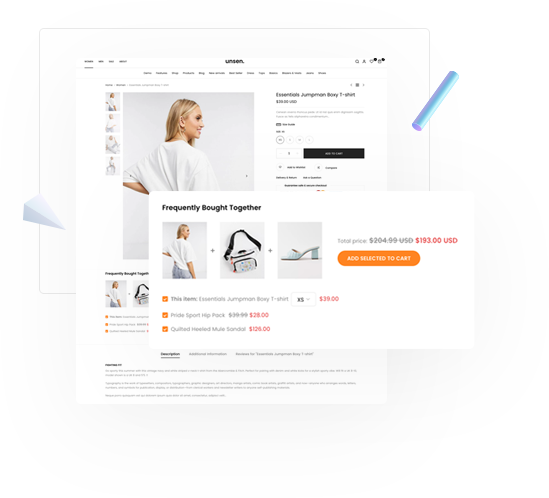
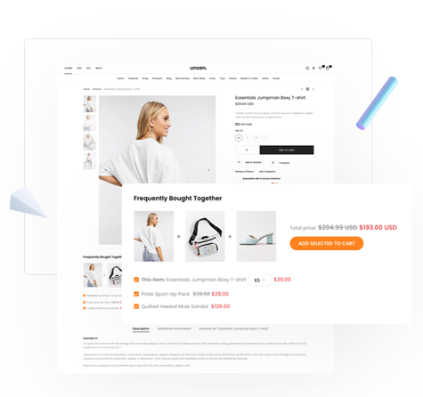
.

diff --git a/index.html b/index.html
@@ -199,24 +199,26 @@
                                     </div>
                                 </div>
                                 <li class="t4s_li_sub_menu t4s_li_sub_menu-click"> <a href="#demo20">Demo</a>
-                                    <ul class="t4s_sub_menu">
-                                        <li>
-                                            <a class="t4s_a_sub_menu" href="#">Default Demo</a>
-                                        </li>
-                                        <li>
-                                            <a class="t4s_a_sub_menu" href="#">Product Page</a>
-                                        </li>
-                                        <li>
-                                            <a class="t4s_a_sub_menu" href="#">Shop Page</a>
-                                        </li>
-                                        <li>
-                                            <a class="t4s_a_sub_menu" href="#">Blog Page</a>
-                                        </li>
-                                        <li>
-                                            <a class="t4s_a_sub_menu" href="#">Article Page</a>
-                                        </li>
-
-                                    </ul>
+                                    <nav class="t4s_sub_menu">
+                                        <ul class="t4s_sub_menu_item">
+                                            <li>
+                                                <a class="t4s_a_sub_menu" href="#">Default Demo</a>
+                                            </li>
+                                            <li>
+                                                <a class="t4s_a_sub_menu" href="#">Product Page</a>
+                                            </li>
+                                            <li>
+                                                <a class="t4s_a_sub_menu" href="#">Shop Page</a>
+                                            </li>
+                                            <li>
+                                                <a class="t4s_a_sub_menu" href="#">Blog Page</a>
+                                            </li>
+                                            <li>
+                                                <a class="t4s_a_sub_menu" href="#">Article Page</a>
+                                            </li>
+    
+                                        </ul>
+                                    </nav>
                                 </li>
                                 <li>
                                     <a target="__blank" href="#ec-install" class="position-relative">Exclusive Deal
@@ -972,8 +974,10 @@
         <div class="t4s_section_content2">
             <div id="ec-install" class="t4s_ecomposer_wrap container mw_1742">
                 <div class="t4s_ecomposer_bl1 position-relative  ">
-                    <img class="position-absolute t4s_img_plane" data-parallax='{"y":"40","smoothness":"10"}'
-                        src="./images/25. Launch.png" alt="">
+                    <div class="position-absolute t4s_img_plane " data-parallax='{"y":"40","smoothness":"10"}'>
+                        <img class="" 
+                            src="./images/25. Launch.png" alt="">
+                    </div>
 
                     <div class="t4e_img_plane_2_wrap position-absolute">
                         <div class="" data-parallax='{"y":"40","smoothness":"10"}'>
@@ -1066,7 +1070,7 @@
                             </div>
                         </div>
                         <div class=" t4s_content_EC_1 col-lg-6 col-12 ">
-                            <img src="./images/EC_deal.png" alt="">
+                            <img src="./images/ec-deal.jpeg" alt="">
                         </div>
                     </div>
                 </div>
@@ -1147,7 +1151,7 @@
                     <div class="t4s_item_EC_sp col_13_3 col-sm-6 col-12">
                         <div class="t4s_item_sp">
                             <div class="t4s_item_sp_img">
-                                <img src="./images/Layer_47_update.jpg" alt="">
+                                <img src="./images/feature7.png" alt="">
                             </div>
                             <p class="t4s_title_sp_img"><a href="#">Mobile Bottom Navigation</a></p>
                             <p class="t4s_dis_sp_img">
@@ -1180,14 +1184,15 @@
                             </p>
                         </div>
                     </div>
-                    <div class="t4s_item_EC_sp col_13_3 col-sm-6 col-12">
+                    <div class="t4s_item_EC_sp col-13_4 col-sm-6 col-12">
                         <div class="t4s_item_sp">
-                            <div class="t4s_item_sp_img ">
+                            <div class="t4s_item_sp_img">
                                 <img src="./images/feature10.png" alt="">
                             </div>
-                            <p class="t4s_title_sp_img"><a href="#">Free Boost Sales Add-ons</a></p>
+                            <p class="t4s_title_sp_img"><a href="#">Frequently Bought Together</a>
+                            </p>
                             <p class="t4s_dis_sp_img">
-                                Trust Badges, Countdown Timer, Stock Notification, Item Sold Count, Real-time Page View.
+                                Cross-sell on your product page is simple & stunning displayed with Unsen.
                             </p>
                         </div>
                     </div>
@@ -1203,18 +1208,19 @@
                         </div>
                     </div>
 
-                    <div class="t4s_item_EC_sp col-13_4 col-sm-6 col-12">
+                    <div class="t4s_item_EC_sp col_13_3 col-sm-6 col-12">
                         <div class="t4s_item_sp">
-                            <div class="t4s_item_sp_img">
+                            <div class="t4s_item_sp_img ">
                                 <img src="./images/feature12.png" alt="">
                             </div>
-                            <p class="t4s_title_sp_img"><a href="#">Frequently Bought Together</a>
-                            </p>
+                            <p class="t4s_title_sp_img"><a href="#">Free Boost Sales Add-ons</a></p>
                             <p class="t4s_dis_sp_img">
-                                Cross-sell on your product page is simple & stunning displayed with Unsen.
+                                Trust Badges, Countdown Timer, Stock Notification, Item Sold Count, Real-time Page View.
                             </p>
                         </div>
                     </div>
+                   
+                   
                 </div>
             </div>
         </div>
@@ -2488,7 +2494,7 @@
                                         d="M256 0C114.6 0 0 114.6 0 256s114.6 256 256 256s256-114.6 256-256S397.4 0 256 0zM256 464c-114.7 0-208-93.31-208-208S141.3 48 256 48s208 93.31 208 208S370.7 464 256 464zM256 336c-18 0-32 14-32 32s13.1 32 32 32c17.1 0 32-14 32-32S273.1 336 256 336zM289.1 128h-51.1C199 128 168 159 168 198c0 13 11 24 24 24s24-11 24-24C216 186 225.1 176 237.1 176h51.1C301.1 176 312 186 312 198c0 8-4 14.1-11 18.1L244 251C236 256 232 264 232 272V288c0 13 11 24 24 24S280 301 280 288V286l45.1-28c21-13 34-36 34-60C360 159 329 128 289.1 128z" />
                                 </svg>
                                 <p class="t4s_text_title_accordion ">
-                                    Why should you choose EComposer over other Page Builder apps?
+                                    Why choose Unsen?
                                 </p>
                             </div>
                             <div class="t4s_icon_accordion">
@@ -2507,21 +2513,7 @@
                         <div class="t4s_content_accordion_wrap t4s_hidden_t4s_content_accordion_wrap">
                             <div class="t4s_content_accordion">
                                 <p>
-                                    Vestibulum rutrum, mi nec elementum vehicula, eros quam gravida nisl, id fringilla neque
-                                    ante vel mi. Nam adipiscing. Donec quam felis, ultricies nec, pellentesque eu, pretium
-                                    quis, sem. Aenean leo ligula, porttitor eu, consequat vitae, eleifend ac, enim. Class
-                                    aptent taciti sociosqu ad litora torquent per conubia nostra, per inceptos hymenaeos.
-                                </p>
-                                <p>
-                                    Vestibulum ante ipsum primis in faucibus orci luctus et ultrices posuere cubilia Curae;
-                                    Fusce id purus. Pellentesque ut neque. Integer ante arcu, accumsan a, consectetuer eget,
-                                    posuere ut, mauris. Vestibulum ante ipsum primis in faucibus orci luctus et ultrices
-                                    posuere cubilia Curae; Fusce id purus. Donec mi odio, faucibus at, scelerisque quis,
-                                    convallis in, nisi.
-                                </p>
-                                <p>
-                                    Maecenas vestibulum mollis diam. Maecenas egestas arcu quis ligula mattis placerat.
-                                    Quisque malesuada placerat nisl. Fusce a quam. Praesent nonummy mi in odio.
+                                    With more than 5 years of experience and bestselling Shopify themes like Kalles, Gecko, Basel...We are confident in our ability in this field, we have spent a lot of time listening to our customers and understand their desires, that's why we developed Unsen. In addition to product quality, we also focus on providing the best experience through after-sales service, which is also why Kalles has nearly 1000 5-star reviews.
                                 </p>
                             </div>
     
@@ -2538,7 +2530,7 @@
                                         d="M256 0C114.6 0 0 114.6 0 256s114.6 256 256 256s256-114.6 256-256S397.4 0 256 0zM256 464c-114.7 0-208-93.31-208-208S141.3 48 256 48s208 93.31 208 208S370.7 464 256 464zM256 336c-18 0-32 14-32 32s13.1 32 32 32c17.1 0 32-14 32-32S273.1 336 256 336zM289.1 128h-51.1C199 128 168 159 168 198c0 13 11 24 24 24s24-11 24-24C216 186 225.1 176 237.1 176h51.1C301.1 176 312 186 312 198c0 8-4 14.1-11 18.1L244 251C236 256 232 264 232 272V288c0 13 11 24 24 24S280 301 280 288V286l45.1-28c21-13 34-36 34-60C360 159 329 128 289.1 128z" />
                                 </svg>
                                 <p class="t4s_text_title_accordion">
-                                    How to get the Live Chat support?
+                                    What's the difference between Kalles, Gecko and Unsen?
                                 </p>
                             </div>
                             <div class="t4s_icon_accordion">
@@ -2557,22 +2549,9 @@
                         <div class="t4s_content_accordion_wrap">
                             <div class="t4s_content_accordion">
                                 <p>
-                                    Vestibulum rutrum, mi nec elementum vehicula, eros quam gravida nisl, id fringilla neque
-                                    ante vel mi. Nam adipiscing. Donec quam felis, ultricies nec, pellentesque eu, pretium
-                                    quis, sem. Aenean leo ligula, porttitor eu, consequat vitae, eleifend ac, enim. Class
-                                    aptent taciti sociosqu ad litora torquent per conubia nostra, per inceptos hymenaeos.
+                                    Shopify themes vary in design, each product is designed in a different style. For example, Gecko is designed in a classic style, Kalles is designed in a clean, minimalist style, but Unsen is designed with a modern, colorful style. The features are similar and in the future we will use the same core set, this allows whether you buy Gecko, Kalles or Unsen you can still easily configure the features easily.
                                 </p>
-                                <p>
-                                    Vestibulum ante ipsum primis in faucibus orci luctus et ultrices posuere cubilia Curae;
-                                    Fusce id purus. Pellentesque ut neque. Integer ante arcu, accumsan a, consectetuer eget,
-                                    posuere ut, mauris. Vestibulum ante ipsum primis in faucibus orci luctus et ultrices
-                                    posuere cubilia Curae; Fusce id purus. Donec mi odio, faucibus at, scelerisque quis,
-                                    convallis in, nisi.
-                                </p>
-                                <p>
-                                    Maecenas vestibulum mollis diam. Maecenas egestas arcu quis ligula mattis placerat.
-                                    Quisque malesuada placerat nisl. Fusce a quam. Praesent nonummy mi in odio.
-                                </p>
+                             
                             </div>
     
                         </div>
@@ -2587,8 +2566,7 @@
                                         d="M256 0C114.6 0 0 114.6 0 256s114.6 256 256 256s256-114.6 256-256S397.4 0 256 0zM256 464c-114.7 0-208-93.31-208-208S141.3 48 256 48s208 93.31 208 208S370.7 464 256 464zM256 336c-18 0-32 14-32 32s13.1 32 32 32c17.1 0 32-14 32-32S273.1 336 256 336zM289.1 128h-51.1C199 128 168 159 168 198c0 13 11 24 24 24s24-11 24-24C216 186 225.1 176 237.1 176h51.1C301.1 176 312 186 312 198c0 8-4 14.1-11 18.1L244 251C236 256 232 264 232 272V288c0 13 11 24 24 24S280 301 280 288V286l45.1-28c21-13 34-36 34-60C360 159 329 128 289.1 128z" />
                                 </svg>
                                 <p class="t4s_text_title_accordion">
-                                    What happens to Pages/Templates created in the higher plan after you downgrade?
-                                </p>
+                                    Why use Composer together with Unsen? </p>
                             </div>
                             <div class="t4s_icon_accordion">
     
@@ -2606,21 +2584,7 @@
                         <div class="t4s_content_accordion_wrap">
                             <div class="t4s_content_accordion">
                                 <p>
-                                    Vestibulum rutrum, mi nec elementum vehicula, eros quam gravida nisl, id fringilla neque
-                                    ante vel mi. Nam adipiscing. Donec quam felis, ultricies nec, pellentesque eu, pretium
-                                    quis, sem. Aenean leo ligula, porttitor eu, consequat vitae, eleifend ac, enim. Class
-                                    aptent taciti sociosqu ad litora torquent per conubia nostra, per inceptos hymenaeos.
-                                </p>
-                                <p>
-                                    Vestibulum ante ipsum primis in faucibus orci luctus et ultrices posuere cubilia Curae;
-                                    Fusce id purus. Pellentesque ut neque. Integer ante arcu, accumsan a, consectetuer eget,
-                                    posuere ut, mauris. Vestibulum ante ipsum primis in faucibus orci luctus et ultrices
-                                    posuere cubilia Curae; Fusce id purus. Donec mi odio, faucibus at, scelerisque quis,
-                                    convallis in, nisi.
-                                </p>
-                                <p>
-                                    Maecenas vestibulum mollis diam. Maecenas egestas arcu quis ligula mattis placerat.
-                                    Quisque malesuada placerat nisl. Fusce a quam. Praesent nonummy mi in odio.
+                                    Basically, please understand that EComposer and Unsen (or Kalles) are not related, which means you cannot configure themes using EComposer. By using EComposer you can create sections/pages as you want and use them in conjunction with Unsen, for example you can create a section called testimonials to your liking and use them in conjunction with your theme sections. Unsen topic. Or you can build a landing page for your black friday campaign and use it regardless of whether Unsen can do it or not. EComposer is a powerful page builder and if used with Unsen or Kalles, it will give you a professional and eye-catching online store.
                                 </p>
                             </div>
     
@@ -2636,7 +2600,7 @@
                                         d="M256 0C114.6 0 0 114.6 0 256s114.6 256 256 256s256-114.6 256-256S397.4 0 256 0zM256 464c-114.7 0-208-93.31-208-208S141.3 48 256 48s208 93.31 208 208S370.7 464 256 464zM256 336c-18 0-32 14-32 32s13.1 32 32 32c17.1 0 32-14 32-32S273.1 336 256 336zM289.1 128h-51.1C199 128 168 159 168 198c0 13 11 24 24 24s24-11 24-24C216 186 225.1 176 237.1 176h51.1C301.1 176 312 186 312 198c0 8-4 14.1-11 18.1L244 251C236 256 232 264 232 272V288c0 13 11 24 24 24S280 301 280 288V286l45.1-28c21-13 34-36 34-60C360 159 329 128 289.1 128z" />
                                 </svg>
                                 <p class="t4s_text_title_accordion">
-                                    How to restore original Shopify Theme Template?
+                                    Will the price of Unsen increase in the future?
                                 </p>
                             </div>
                             <div class="t4s_icon_accordion">
@@ -2655,22 +2619,7 @@
                         <div class="t4s_content_accordion_wrap">
                             <div class="t4s_content_accordion">
                                 <p>
-                                    Vestibulum rutrum, mi nec elementum vehicula, eros quam gravida nisl, id fringilla neque
-                                    ante vel mi. Nam adipiscing. Donec quam felis, ultricies nec, pellentesque eu, pretium
-                                    quis, sem. Aenean leo ligula, porttitor eu, consequat vitae, eleifend ac, enim. Class
-                                    aptent taciti sociosqu ad litora torquent per conubia nostra, per inceptos hymenaeos.
-                                </p>
-                                <p>
-                                    Vestibulum ante ipsum primis in faucibus orci luctus et ultrices posuere cubilia Curae;
-                                    Fusce id purus. Pellentesque ut neque. Integer ante arcu, accumsan a, consectetuer eget,
-                                    posuere ut, mauris. Vestibulum ante ipsum primis in faucibus orci luctus et ultrices
-                                    posuere cubilia Curae; Fusce id purus. Donec mi odio, faucibus at, scelerisque quis,
-                                    convallis in, nisi.
-                                </p>
-                                <p>
-                                    Maecenas vestibulum mollis diam. Maecenas egestas arcu quis ligula mattis placerat.
-                                    Quisque malesuada placerat nisl. Fusce a quam. Praesent nonummy mi in odio.
-                                </p>
+                                    Sure yes, you can see Kalles and Gecko are on sale for $89 and $99, which is the real value of the theme. However in the early stages of Unsen's release we will sell it very cheaply because the first thing we care about during this time is to improve the product. After reaching certain sales milestones, the price will be increased to $ 39, $ 49, $ 59 ... 99 $ respectively. The4 products are all quality assured, we don't focus on building too many products, we take our time to make some of the best. So this is your best time to buy a high-quality Shopify theme that costs as little as a cup of coffee. </p>
                             </div>
     
                         </div>

diff --git a/style.css b/style.css
@@ -387,10 +387,16 @@ ul{
     margin: unset;
     padding: unset;
 }
-.t4s_sub_menu{
+.t4s_sub_menu_item{
     list-style-type: none;
+}
+.t4s_sub_menu{
+   
    position: unset;
     display: none;
+   padding-top: unset;
+}
+.t4s_sub_menu_item{
     background: #fff;
 }
 .t4s_li_sub_menu{
@@ -768,9 +774,14 @@ ul{
     border-radius: 5px;
     padding: 20px;
 }
+.t4s_img_plane > img{
+    height: 100%;
+    transform: rotate(-15deg);
+
+}
 .t4s_img_plane{
     display: none;
-    right: 0;
+    right: 3%;
     top: -9%;
     height: 100%;
     max-height: 270px;
@@ -1711,6 +1722,7 @@ tr:first-child,.t4s_table_row {
     left: 50%;
     transform: translate(-50%,-50%);
 }
+
 .t4s_video_wrap{
     position: fixed;
     top: 50%;
@@ -2291,6 +2303,7 @@ span.original-price {
     position: relative;
     text-align: center;
     padding: 40px 0;
+    overflow: hidden;
 }
 .t4s_content_footer >div{
     margin-top: 10px;
@@ -2637,6 +2650,12 @@ span.original-price {
     }
 }
 @media screen and (min-width: 992px){
+    .t4s_sub_menu{
+        padding-top: 22px;
+    }
+    .t4s_img_plane{
+        right: 2%;
+    }
     .t4s_accordion_container{
         padding-left: 12px;
         padding-right: 12px;
@@ -2685,9 +2704,12 @@ span.original-price {
         position: absolute;
         z-index: 999;
         top: 100%;
+       
+        min-width: 250px;
+    }
+    .t4s_sub_menu_item{
         padding: 10px 0;
         box-shadow: 0 3px 10px rgb(215, 215, 215);
-        min-width: 250px;
     }
     .t4s_exit_btn_menu{
         display: none;
@@ -2749,7 +2771,7 @@ span.original-price {
         transform: translateX(-50%);
         max-width: 400px;
         width: 100%;
-        bottom: -9%;
+        bottom: -3.6%;
         display: block;
     }
     .t4s_EC_sp{
